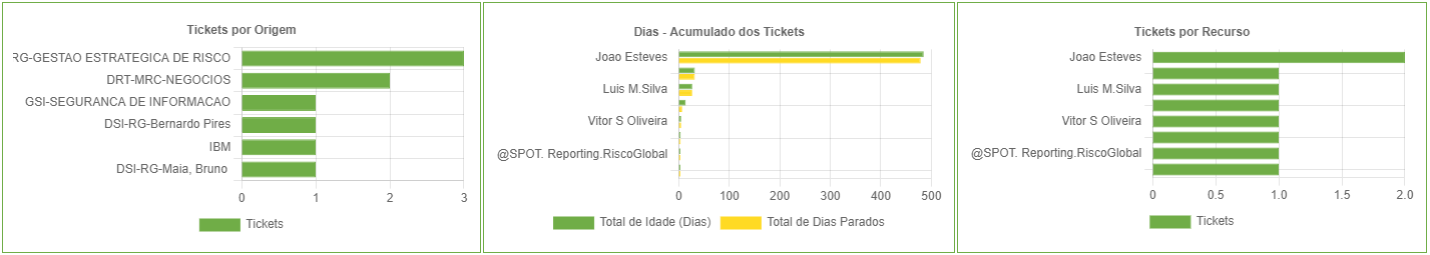
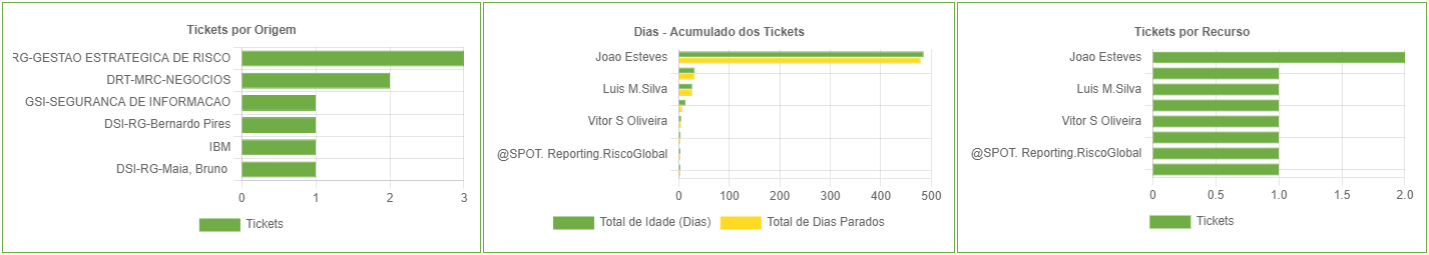
ultimos ajustes

diff --git a/src/controller/scraper.js b/src/controller/scraper.js
@@ -199,15 +199,17 @@ module.exports.initialize = async () => {
 };
 
 module.exports.createImageCharts = async () => {
-  const browser = await puppeteer.launch({
-    defaultViewport: {
-        width: 1430,
-        height: 255,
-        isLandscape: true
-    });  
+  const browser = await puppeteer.launch({headless: false});  
   const page = await browser.newPage();
-  await page.goto("http://localhost:3000/charts", { waitUntil: "networkidle2" });
-  await page.screenshot({path: path.join(__dirname,"..","public","img","charts.png"), clip: {x: 0, y: 0, width: 1430, height: 255} });
+  await page.setViewport({
+    width: 1600,
+    height: 800,
+    isMobile: false
+  })  
+  await page.goto("http://localhost:3000/charts", {waitUntil: 'networkidle2'});
+ 
+  const elt = await page.$('.tab-graficos');
+  await elt.screenshot({path: path.join(__dirname,"..","public","img","charts.png")});
   await browser.close();
 };  
 

diff --git a/src/config/mailer.js b/src/config/mailer.js
@@ -8,8 +8,8 @@ module.exports = {
         proxy: process.env.ITSM_MAILER_HTTP_PROXY        
     },    
     mailOptions: {
-      from: process.env.ITSM_MAILER_MAIL_OPTIONS_FROM || "vitor.olivier.oliveira@novobanco.pt",
-      to: process.env.ITSM_MAILER_MAIL_OPTIONS_TO || "vitor.olivier.oliveira@novobanco.pt",
-      subject: "Tickets Pendentes RG - " + new Date()
+      from: process.env.ITSM_MAILER_MAIL_OPTIONS_FROM || "bruno.maia@novobanco.pt",
+      to: process.env.ITSM_MAILER_MAIL_OPTIONS_TO || "vitor.olivier.oliveira@novobanco.pt; bruno.maia@novobanco.pt; ana.figueiredo@novobanco.pt;",
+      subject: "Tickets Pendentes RG - " + (new Date()).toISOString().slice(0, 19).replace(/-/g, "/").replace("T", " ")
     },
   };

diff --git a/src/config/scheduler.js b/src/config/scheduler.js
@@ -1,7 +1,7 @@
 const result = require("dotenv").config();
 module.exports = {  
   //jobConfig: "0 0 8 * * 1",
-  updateData: {url: "http://localhost:3000/update-data", jobConfig: "42 * * * *",},
-  sendMail: {url: "http://localhost:3000/send-mail", jobConfig: "47 * * * *",},
+  updateData: {url: "http://localhost:3000/update-data", jobConfig: "0 0 7 * * 1",},
+  sendMail: {url: "http://localhost:3000/send-mail", jobConfig: "0 5 7 * * 1",},
   };
   

diff --git a/src/controller/mailer.js b/src/controller/mailer.js
@@ -22,7 +22,5 @@ module.exports.sendMail = async (html) => {
         cid: "charts@image.png"
     }]
     }).catch(logger.error);
-
-    logger.info("Message sent: %s", info.messageId);
   } 
 };
